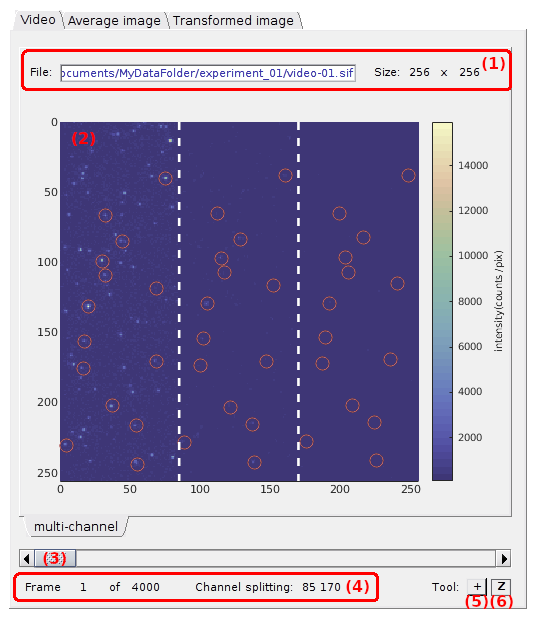
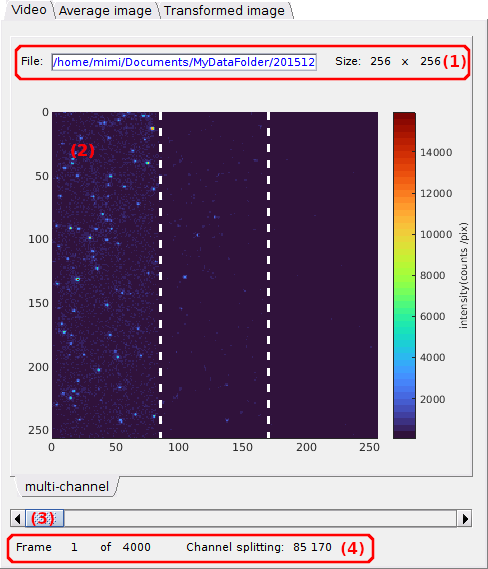
update doc with new modif to VP GUI

diff --git a/docs/video-processing/components/area-visualization.md b/docs/video-processing/components/area-visualization.md
@@ -17,6 +17,8 @@ It consists in three tabs, each showing different video-related data.
 Use this area to visualize single molecule video data. 
 Any graphics in MASH-FRET can be exported to an image file by right-clicking on the axes and selecting `Export graph`.
 
+<a class="plain" href="../../assets/images/gui/VP-area-visu.png"><img src="../../assets/images/gui/VP-panel-videdit.png" style="max-width: 507px;"/></a>
+
 
 ## Area components
 {: .no_toc .text-delta }
@@ -27,11 +29,14 @@ Any graphics in MASH-FRET can be exported to an image file by right-clicking on 
 
 ---
 
-## Single molecule video
+## Images
+
+### Single molecule video
+{: .no_toc }
 
 Use this tab to navigate throught the video frames.
 
-<a class="plain" href="../../assets/images/gui/VP-area-visu-vid.png"><img src="../../assets/images/gui/VP-area-visu-vid.png" style="max-width:537px"></a>
+<a class="plain" href="../../assets/images/gui/VP-area-visu-vid.png"><img src="../../assets/images/gui/VP-area-visu-vid.png" style="max-width:488px"></a>
 
 * **(1)** [Video information](#video-information)
 * **(2)** [Video visualization](#video-visualization)
@@ -41,7 +46,7 @@ Use this tab to navigate throught the video frames.
 * **(6)** [Zoom tool](#zoom-tool)
 
 
-### Video information
+#### Video information
 {: .no_toc }
 
 <a class="plain" href="../../assets/images/gui/VP-area-visu-vid-vidfile.png"><img src="../../assets/images/gui/VP-area-visu-vid-vidfile.png" style="max-width:488px"></a>
@@ -51,7 +56,7 @@ The video file name and location is shown in **(a)** and video pixel dimensions 
 These properties are read-only.
 
 
-### Video visualization
+#### Video visualization
 {: .no_toc }
 
 Shows the current video frame and corresponding spots or molecule positions.
@@ -78,7 +83,7 @@ It is possible to zoom in the display and create intensity-time traces at specif
 [Create trace tool](#create-trace-tool) respectively.
 
 
-### Navigation
+#### Navigation
 {: .no_toc }
 
 Use this sliding bar to navigate throught the video frames.
@@ -89,7 +94,7 @@ When spots are detected with the tool Spotfinder, the corresponding coordinates 
 [Spotfinder](panel-molecule-coordinates.html#spotfinder) for more information.
 
 
-### Frame information
+#### Frame information
 {: .no_toc }
 
 Shows information about the current frame index and channel splitting positions.
@@ -99,39 +104,8 @@ Shows information about the current frame index and channel splitting positions.
 The current frame index is shown in **(a)**, the video length in **(b)** and channel splitting positions (in pixels) in **(c)** considering equal channel widths.
 
 
-### Create trace tool
+### Average image
 {: .no_toc }
-
-Press 
-![+](../../assets/images/gui/VP-but-plus.png "+") to activate the "Create trace" cursor.
-
-The "Create trace" cursor allows to generate and plot laser-specific intensity-time traces by simply clicking on a specific pixel in the 
-[Video visualization](#video-visualization).
-
-Intensity data can be exported to MATLAB's workspace by pressing 
-![Yes](../../assets/images/gui/VP-but-yes.png "Yes") in the dialogue box; otherwise press 
-![No](../../assets/images/gui/VP-but-no.png "No").
-
-<a class="plain" href="../../assets/images/gui/VP-area-visu-traces.png"><img src="../../assets/images/gui/VP-area-visu-traces.png" /></a>
-
-Intensities are calculated as described in 
-[Integration parameters](panel-intensity-integration.html#integration-parameters) and given in units defined in menu `Units` of the 
-[Menu bar](../../Getting_started.html#interface).
-
-
-### Zoom tool
-{: .no_toc }
-
-Press 
-![Z](../../assets/images/gui/VP-but-z.png "Z") to activate the zoom cursor.
-
-The zoom cursor allows to zoom in and out the 
-[Video visualization](#video-visualization) like on regular MATLAB axes.
-
-
----
-
-## Average image
 
 Use this tab to visualize the average image.
 
@@ -155,9 +129,8 @@ It is possible to zoom in the display by using the
 [Zoom tool](#zoom-tool).
 
 
----
-
-## Transformed image
+### Transformed image
+{: .no_toc }
 
 Use this tab to check the quality of channel transformation.
 
@@ -171,4 +144,43 @@ Dotted white lines are plotted at channel splitting positions given in
 
 It is possible to zoom in the display by using the
 [Zoom tool](#zoom-tool).
+
+
+---
+
+
+## Create trace tool
+
+Press 
+![+](../../assets/images/gui/VP-but-plus.png "+") to activate the "Create trace" cursor.
+
+The "Create trace" cursor allows to generate and plot laser-specific intensity-time traces by simply clicking on a specific pixel of the 
+[Video visualization](#video-visualization) or of the 
+[Average image](#average-image).
+
+Intensity data can be exported to MATLAB's workspace by pressing 
+![Yes](../../assets/images/gui/VP-but-yes.png "Yes") in the dialogue box; otherwise press 
+![No](../../assets/images/gui/VP-but-no.png "No").
+
+<a class="plain" href="../../assets/images/gui/VP-area-visu-traces.png"><img src="../../assets/images/gui/VP-area-visu-traces.png" /></a>
+
+Intensities are calculated as described in 
+[Integration parameters](panel-intensity-integration.html#integration-parameters) and given in units defined in menu `Units` of the 
+[Menu bar](../../Getting_started.html#interface).
+
+
+---
+
+
+## Zoom tool
+
+Press 
+![Z](../../assets/images/gui/VP-but-z.png "Z") to activate the zoom cursor and deactivate the 
+[Create trace tool](#create-trace-tool).
+
+The zoom cursor allows to zoom in and out the 
+[Image](#image) area like on regular MATLAB axes.
+
+
+---
 
